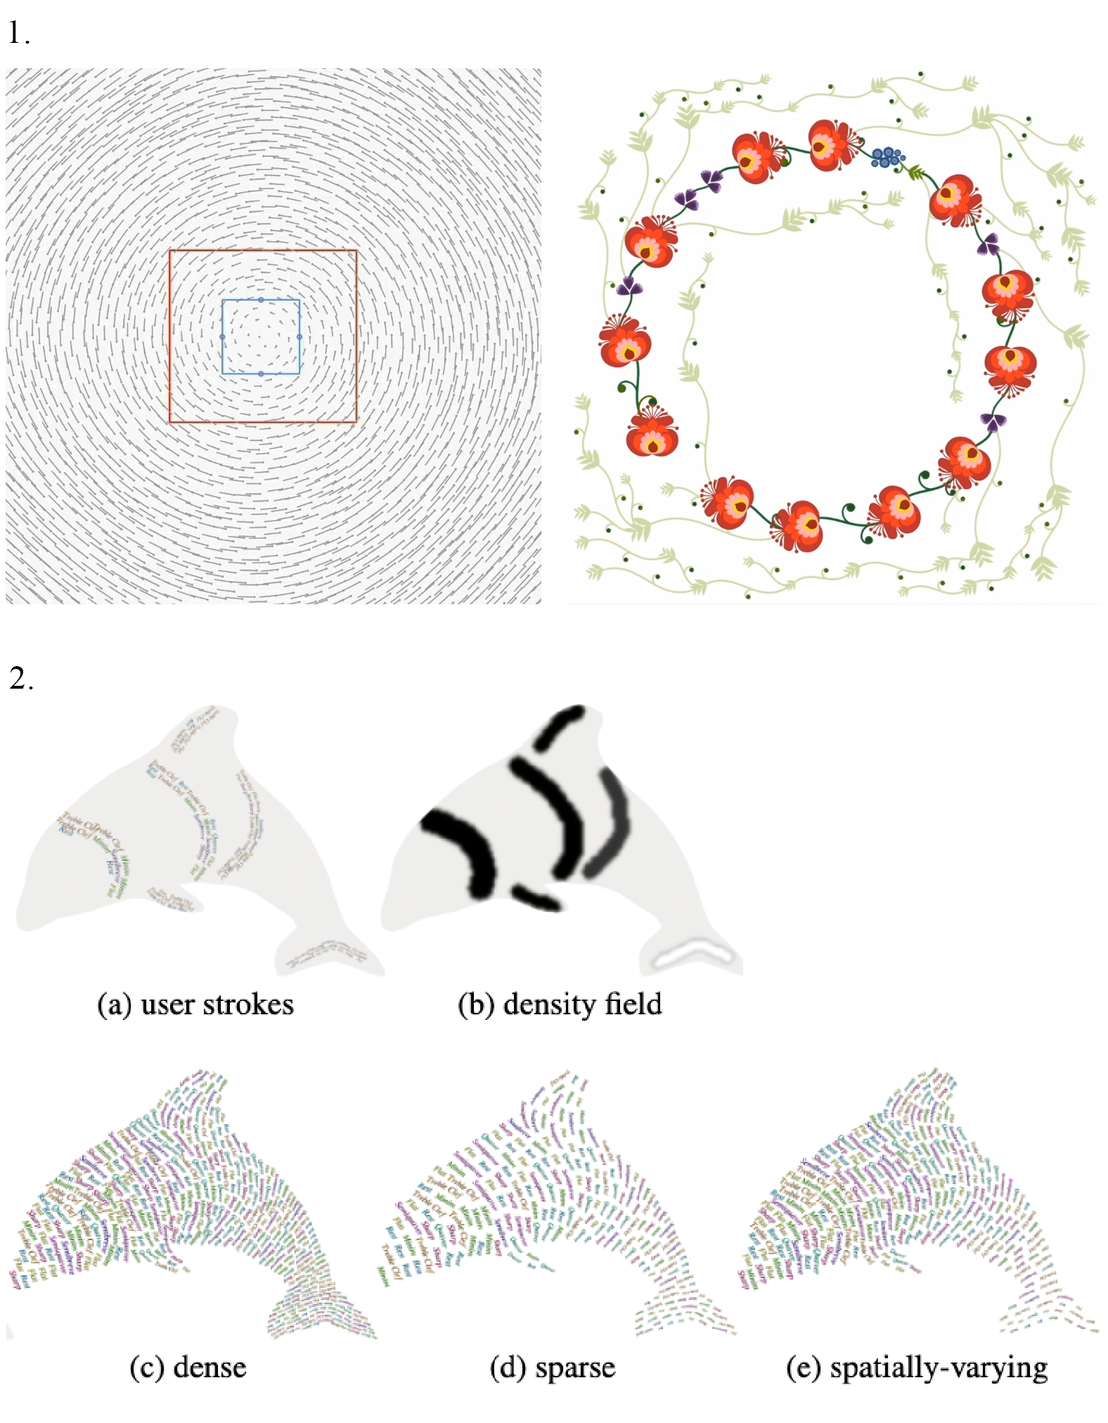
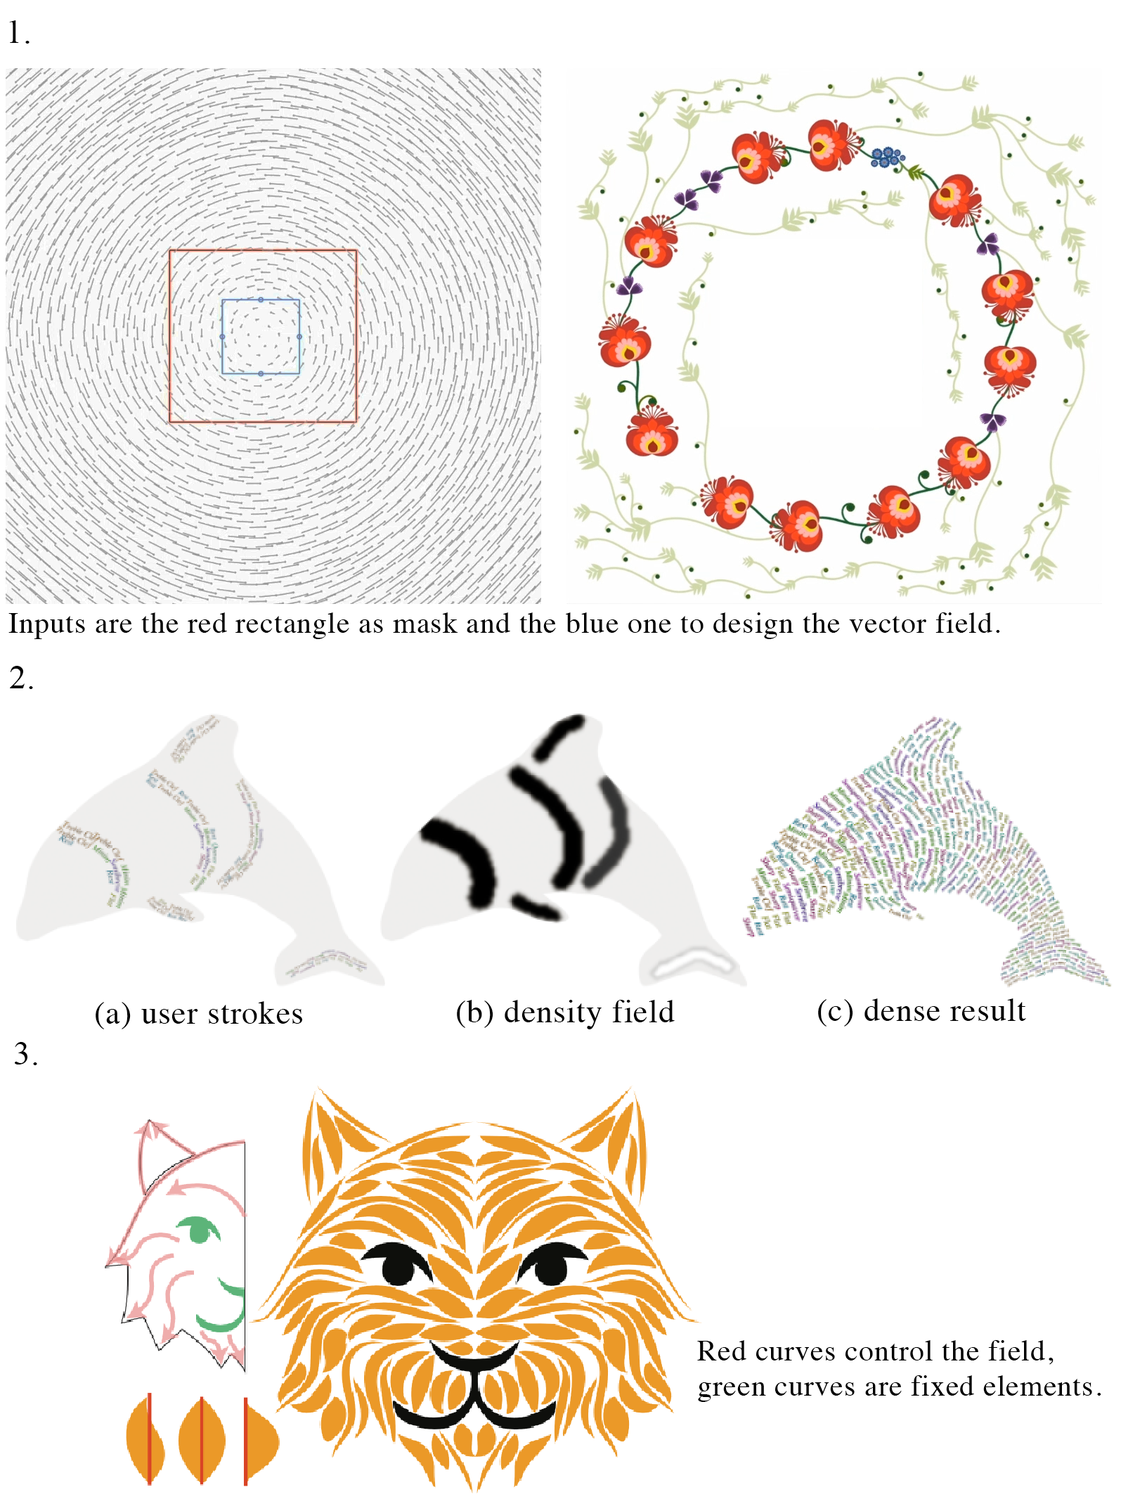
WIP Discussion

diff --git a/sections/deco_star_discussion.tex b/sections/deco_star_discussion.tex
@@ -6,17 +6,17 @@
 \section{Discussion and Creative Means}
 \label{sec:discussion_creative_means}
 
-% TODO: More discussion for table:analysis
 Table~\ref{table:analysis} lists for the above discussed publications the control mechanisms, which are categorized in~\Cref{sec:taxo_control_mechanism}. For interrelating the control mechanisms to the control characteristics, we considered the same publications in Table~\ref{table:taxo_controlmechanism}. Due to the diversity of the underlying methods and the different design goals of the considered body of work, we believe this to be a representative summarization.
 
-Table~\ref{table:taxo_controlmechanism} shows that global, hence automatic, control is usually enabled through intermediate representations, such as an example image, while on the other end of the spectrum, the placement of elements as part of the actual output is local, and automation is lost. Parameterization and the different types of handling also require abstracted input from an artist, such as the use of a slider. Sketch-based controls, such as an eraser, move the interaction onto the canvas and can make small-scale adjustments. The definition of a space or a curve to fill and masking areas is also usually done directly on the canvas but only influence the output indirectly. A brushing mechanism simultaneously creates the output directly on the canvas but can only do so in a limited region depending on the brush size, unless used to brush intermediate control lines. All other inputs are typically given before or after the generation of the output. The classification underlines that a focus on one control type, as is often done in computer graphics research, leads to the common trade-off between global automation and local manual manufacturing.
+\rev{Discussion Added}{Which design features the anlaysed work in Table~\ref{table:analysis} considers, indicates in summary a common tendency. A large body of work focuses on repetitive pattern designs and filling a space, usually automatically. The second most prominent group of work, focuses on curves and brushing, resulting in individual but potentially unstructured designs, usually created manually. Creative pattern designs, however, as for example the historic examples in \Cref{fig:historic_examples} show, include various spatial structures such as frames. Hence, neither overall repetition, nor painting-like methods are the most suitable solution to give creative freedom. instead, algorithms are needed that support artist to create structures creatively.}
+
+Table~\ref{table:taxo_controlmechanism} shows that global, hence automatic, control is usually enabled through intermediate representations, such as an example image, while on the other end of the spectrum, the placement of elements as part of the actual output is local, and automation is lost. \rev{Clarification}{The dominant control mechanisms of parameterization requires abstracted input from an artist, such as the use of a slider.} Sketch-based controls, such as an eraser, move the interaction onto the canvas and can make small-scale adjustments. The definition of a space or a curve to fill and masking areas is also usually done directly on the canvas but only influence the output indirectly. A brushing mechanism simultaneously creates the output directly on the canvas but can only do so in a limited region depending on the brush size, unless used to brush intermediate control lines. All other inputs are typically given before or after the generation of the output. The classification underlines that a focus on one control type, as is often done in computer graphics research, leads to the common trade-off between global automation and local manual manufacturing.
 
 % TABLE
 % This is for overaleaf a preview image as the table does not compile there...
 \subimport{tables/}{table_controlmechanism}
 
-
-We now discuss the techniques' potential to support a creative workflow, clustered into the most common types of control. This discussion of the creative means has an interpretative nature to it. Arguably, not always is an unambiguous reasoning manageable. Thus, this discussion should be viewed as a step toward an objective discussion about terms such as artist-usable and creatively controllable as well as a more realistic usage of these terms.
+We now discuss the techniques' potential to support a creative workflow, clustered into the most common types of control. This discussion of the creative means of navigation, transparency, variation and simulation (\Cref{sec:creativ_means}) has an interpretative nature to it. Arguably, not always is an unambiguous reasoning manageable. Thus, this discussion should be viewed as a step toward an objective discussion about terms such as artist-usable and creatively controllable as well as a more realistic usage of these terms.
 
 \subsection{Example-Based Control}
 \label{subsubsec:analysis_creative_means_example}
@@ -38,51 +38,44 @@ The potential of example-based methods for creative control lies in furthering i
 \subsection{Shapes and Masks}
 \label{subsubsec:analysis_creative_means_shapes}
 
-Sophisticated masks and growth constraints lead to visually interesting and complex designs, such as the packing pattern from~\citeauthor*{saputra_2018_rde}~\cite{saputra_2018_rde}. However, it is not directly predictable how a space will be filled exactly. Because many of the presented methods only offer quite limited interactive performance, even a basic trial and error exploration is hardly feasible; hence, the navigation of the design space becomes cumbersome, and stimulation becomes hindered. The one technique \cite{santoni_2016_ggp} that offers the means for a transparent navigation is also the one with a fairly harsh restricted design space. \citeauthor*{santoni_2016_ggp}~\cite{santoni_2016_ggp}s' consideration of a navigation history stands out from the related work in this survey. In terms of stimuli, the mass-spring system for editing control guides offered by \citeauthor*{benes_2011_gpm}~\cite{benes_2011_gpm}, as well as the elastic curves from \citeauthor*{zehnder_2016_dso}~\cite{zehnder_2016_dso} are promising directions because they are intuitive and enjoyable to use and encourage exploration.
-
-In terms of control mechanisms for a more complex design goal, shape fillings and masks do not permit hierarchical or element-level local controls or the control of element connections needed by artists who want to generate patterns creatively without having to write code.
+Sophisticated masks and growth constraints lead to visually interesting and complex designs, such as the packing pattern from~\citeauthor*{saputra_2018_rde}~\cite{saputra_2018_rde}. However, it is not directly predictable how a space will be filled exactly. Because many of the presented methods only offer quite limited interactive performance, even a basic trial and error exploration is hardly feasible; hence, the navigation of the design space becomes cumbersome, and stimulation becomes hindered. The one technique (\cite{santoni_2016_ggp}) that offers the means for a transparent navigation is also the one with a fairly harsh restricted design space. \citeauthor*{santoni_2016_ggp}~\cite{santoni_2016_ggp}s' consideration of a navigation history stands out from the related work in this survey. In terms of stimuli, the mass-spring system for editing control guides offered by \citeauthor*{benes_2011_gpm}~\cite{benes_2011_gpm}, as well as the elastic curves from \citeauthor*{zehnder_2016_dso}~\cite{zehnder_2016_dso} (\Cref{fig:zehnder_2016_dso}) are promising directions because they are intuitive and enjoyable to use and encourage exploration. \rev{}{Overall, the presented control meachnisms of \citeauthor*{zehnder_2016_dso}~\cite{zehnder_2016_dso} are a convincing solution for enabling artists to adhere to structural constraints while still offering a fully navigable, transparent and stimulating creative workflow.}
 
 \begin{figure}[H]
     \centering
     \revimage{\includegraphics[width=\linewidth]{figures/discussion/zehnder_2016_dso.png}}
-    \caption{\label{fig:zehnder_2016_dso}\citeauthor*{zehnder_2016_dso}~\cite{zehnder_2016_dso} TODO: add description. Example from the supplemental material. \color{orange}{Status rights: author contacted}}
+    \caption{\label{fig:zehnder_2016_dso}\citeauthor*{zehnder_2016_dso}~\cite{zehnder_2016_dso} offer various control mechanisms from creating the base elements (top-left) to combining and editing them on the surface, while ensuring structural soundness (bottom). Example from the supplemental video. \color{orange}{Status rights: Disney?}}
 \end{figure}
 
+In terms of control mechanisms for a more complex design goal, shape fillings and masks do not permit hierarchical or element-level local controls or the control of element connections needed by artists who want to generate patterns creatively without having to write code.
 
-\subsection{Vector Fields}
+
+\subsection{Fields}
 \label{subsubsec:analysis_creative_means_fields}
 
-Fields (in the context of this survey usually vector fields) constitute a powerful tool for combining an automatic procedural filling by individually designing regions on the canvas. As \citeauthor*{hsu_2020_aef}~\cite{hsu_2020_aef}, ~\citeauthor*{saputra_2017_ffo}~\cite{saputra_2017_ffo} and \citeauthor*{gieseke_2017_ooo}~\cite{gieseke_2017_ooo} show, the streamlines of a field can create curves as part of the pattern that fill and structure a space. The design of a vector field requires usually less manual work to fill a space in its entirety by inputing only a few curves that control, \eg~directionality, than the manual creation, \eg~drawing of all curves needed for the filling. Other global design choices, such as an overall growth direction or the alignment of elements, are simple to translate from a vector field to procedural generation rules.
+Fields (in the context of this survey usually vector fields) constitute a powerful tool for combining an automatic procedural filling by individually designing regions on the canvas. As \citeauthor*{hsu_2020_aef}~\cite{hsu_2020_aef}, ~\citeauthor*{saputra_2017_ffo}~\cite{saputra_2017_ffo} and \citeauthor*{gieseke_2017_ooo}~\cite{gieseke_2017_ooo} show (\Cref{fig:fields}), the streamlines of a field can create curves as part of the pattern that fill and structure a space. The design of a vector field requires usually less manual work to fill a space in its entirety by inputing only a few curves that control, \eg~directionality, than the manual creation, \eg~drawing of all curves needed for the filling. Other global design choices, such as an overall growth direction or the alignment of elements, are simple to translate from a vector field to procedural generation rules.
 
 \begin{figure}[H]
     \centering
     \revimage{\includegraphics[width=\linewidth]{figures/discussion/fields.png}}
-    \caption{\label{fig:gieseke_2017_ooo}1. \citeauthor*{gieseke_2017_ooo}~\cite{gieseke_2017_ooo} TODO: add description. Example from the supplemental material. \color{green}{Status rights: granted}. 2. \citeauthor*{hsu_2020_aef}~\cite{hsu_2020_aef} (Figure 10) TODO: add description. \color{orange}{Status rights: invoice received}}
+    \caption{\label{fig:fields}Different approaches to design vector fields for creative pattern generation. 1.~\citeauthor*{gieseke_2017_ooo}~\cite{gieseke_2017_ooo} (example from the supplemental video), 2.~\citeauthor*{hsu_2020_aef}~\cite{hsu_2020_aef} (Figure 10) \color{orange}{Status rights: invoice received}\color{black}, 3.~\citeauthor*{saputra_2017_ffo}~\cite{saputra_2017_ffo} (Figure 14).}
 \end{figure}
 
-The discussed work shows that fields allow for greater visual variation by opening the design space and transparent control for filling a space automatically. When designing a vector field, artists do not work with the pattern directly, but fields are intuitive to understand. Their abstraction translates to the model in a straightforward manner. Thus, using flow within a vector field to design is a suitable control mechanism, especially for designs that aims to align their elements to the space.
-
-% \begin{figure}[H]
-%     \centering
-%     \revimage{\includegraphics[width=\linewidth]{figures/discussion/hsu_2020_aef.png}}
-%     \label{fig:hsu_2020_aef}
-%     \caption{\citeauthor*{hsu_2020_aef}~\cite{hsu_2020_aef} (Figure 10) TODO: add description. \color{orange}{Status rights: ACM requested}}
-% \end{figure}
+The discussed work shows that fields allow for greater visual variation by opening the design space and transparent control for filling a space automatically. When designing a vector field, artists do not work with the pattern directly, but fields are intuitive to understand, \eg through a visual representation. Their abstraction translates to the model in a straightforward manner. Thus, using flow within a vector field to design is a suitable control mechanism, especially for designs that aims to align their elements to the space.
 
 
 \subsection{Curves and Brushing}
 \label{subsubsec:analysis_creative_means_curves}
 
-Curves and hand-drawn paths give an artist direct control over the final result. In addition to the visual output being further constrained, the control is put onto the actual canvas. Curves are needed for tasks such as creating a decorative frame or structuring the space. Some techniques consider the whole curve before computing the pattern, optimizing the filling of the curve based on certain design goals, enabling a form of global planning.
+Curves and hand-drawn paths give an artist direct control over the final result. In addition to the visual output being further constrained, the control is put onto the actual canvas. Curves are needed for tasks such as creating a decorative frame or structuring the space. Some techniques consider the whole curve before computing the ornament and optimize the filling of the curve based on certain design goals. This can be understood as a form of global planning. 
 
 Curves and sketch-like methods offer a well communicated, hence transparent navigation. The discussed techniques are mostly interactive, artists are familiar with their functionality from the real world and they work directly on the canvas. The ease and directness of usage also constitute a foundation for possible immersive flow of work. Using painting-like methods can allow for smoother navigation by integrating brush settings and increasing the quantity of controls.
 
-However, because creation techniques and design spaces are open, it could lead to manual and tedious creation requirements for patterns. To balance this \citeauthor*{kazi_2012_vit}~\cite{kazi_2012_vit} and \citeauthor*{xing_2014_apr}~\cite{xing_2014_apr} incorporate procedural creation principles for automatic fillings into a data-driven process. \citeauthor*{hsu_2020_aef}~\cite{hsu_2020_aef} offer through a brushing system transparent navigation and an open design space within the topic of element arrangements. With a brush an artist is free to draw almost anything - depending only on one's personal drawing capabilities. For creative pattern generation elements are often carefully connected, creating a hierarchy of structures, such as for ornaments. Hence, element arrangements can only provide a subset - albeit an important one - of the design space needed for creative pattern generation. 
+However, because creation techniques and design spaces are open, it could lead to manual and tedious creation requirements for patterns. To balance this \citeauthor*{kazi_2012_vit}~\cite{kazi_2012_vit} and \citeauthor*{xing_2014_apr}~\cite{xing_2014_apr} (\Cref{fig:xing_2014_apr}) incorporate procedural creation principles for automatic fillings into a data-driven process. \citeauthor*{hsu_2020_aef}~\cite{hsu_2020_aef} offer through a brushing system transparent navigation and an open design space within the topic of element arrangements. With a brush an artist is free to draw almost anything - depending only on one's personal drawing capabilities. For creative pattern generation elements are often carefully connected, creating a hierarchy of structures, such as for ornaments. Hence, element arrangements can only provide a subset - albeit an important one - of the design space needed for creative pattern generation. 
 
 \begin{figure}[H]
     \centering
     \revimage{\includegraphics[width=\linewidth]{figures/discussion/xing_2014_apr.png}}
-    \caption{\label{fig:xing_2014_apr}\citeauthor*{xing_2014_apr}~\cite{xing_2014_apr} (Figure 1) TODO: add description. \color{green}{Status rights: granted}}
+    \caption{\label{fig:xing_2014_apr}\citeauthor*{xing_2014_apr}~\cite{xing_2014_apr}s' technique  propagates user sketches (right, black strokes) to fill the give outline automatically (right, red strokes)(Figure 1).}
 \end{figure}
 
 \subsection{Element Placement}

diff --git a/sections/deco_star_analysis.tex b/sections/deco_star_analysis.tex
@@ -165,7 +165,7 @@ The technique of \citeauthor*{ma_2011_det}~\cite{ma_2011_det} is based on a samp
 \subsection{Frames and Hierarchies}
 \label{subsec:analysis_frames_and_hierarchies}
 
-\rev{Better Explanation of Structure}{For the design feature of frames and hierarchies, pattern usually consist of different pattern in different areas. Frames are either based on filling a frame-shaped space or lines and curves.} Some techniques consider the whole curve before computing the ornament and optimize the filling of the curve based on certain design goals. This can be understood as a form of global planning. This type of control gives an artist visually more direct control than the previously discussed methods, which mainly focus on filling a shape. In addition to the visual output being further structured, the control is put onto the actual canvas.\rev{Better Explanation of Structure}{In the following, for designs with frames and hierarchies, we identify the mechanism clusters curves, shapes, masks, and data-driven.}
+\rev{Better Explanation of Structure}{For the design feature of frames and hierarchies, pattern usually consist of different pattern in different areas. Frames are either based on filling a frame-shaped space or lines and curves.} This type of control gives an artist visually more direct control than the previously discussed methods, which mainly focus on filling a shape. In addition to the visual output being further structured, the control is put onto the actual canvas.\rev{Better Explanation of Structure}{In the following, for designs with frames and hierarchies, we identify the mechanism clusters curves, shapes, masks, and data-driven.}
 
 \begin{figure}[H]
     \centering
@@ -195,7 +195,7 @@ Formed curves as visual element, such as circles, spirals or hearts, are essenti
 \begin{figure}[H]
     \centering
     \revimage{\includegraphics[width=\linewidth]{figures/analysis/curves.png}}
-    \caption{\label{fig:curves} On the top, left an example for formed curves as visual pattern element~\cite{xu_2009_mcc} (Figure 4)\color{red}{ Status rights: not started}. \color{black}On the top-right, an example for curves used as control mechanism for a data-driven approach~\cite{lu_2014_dds} (Figure 3) and on the bottom for a procedural pattern~\cite{mech_2012_tdf}.}
+    \caption{\label{fig:curves} On the top, left an example for formed curves as visual pattern element~\cite{xu_2009_mcc} (Figure 4)\color{red}{ Status rights: not started}. \color{black}On the top-right, an example for curves used as control mechanism for a data-driven approach~\cite{lu_2014_dds} (Figure 3) and on the bottom for procedural pattern generation~\cite{mech_2012_tdf}.}
 \end{figure}
 
 For more individual designs, brushing methods create output along curves but do so directly without taking an a priori completed curve into consideration, as if using a spray can or a brush. Brushing techniques usually include a brush diameter, hence the size of the area to be filled along the curve. \citeauthor*{mech_2012_tdf}~\cite{mech_2012_tdf} present the flexible \textit{Deco} procedural engine and examples of brushing methods for different aspects of generating procedural models, from brushing growth constraints, such as masks, to having a pattern grow along the strokes. This discussion only refers to the actual examples given by the authors. However, the engine opens up and generalizes environments for interactive control mechanisms for various types of procedural models. For the programming of decorative pattern models within the engine, helpful functionalities, such as symmetry objects and control guides, are predefined. All artist control mechanisms have interactive performance. Overall, performance mainly depends on the pattern generation scripts. The engine offers to load pattern codes as a dynamic library, optimizing performance. 
@@ -236,7 +236,7 @@ In the context of 3D modelling, \citeauthor*{talton_2009_emw}~\cite{talton_2009_
 \begin{figure}[H]
     \centering
     \revimage{\includegraphics[width=\linewidth]{figures/analysis/guo_2020_ipm.png}}
-    \caption{\label{fig:guo_2020_ipm} Visual example for branching structures. This example from \citeauthor*{guo_2020_ipm}~\cite{guo_2020_ipm} (Figure 13) recreates a user sketch (top, left) with a procedural representation (bottom row) through an inverse modeling approach.}
+    \caption{\label{fig:guo_2020_ipm} Visual examples for branching structures. \citeauthor*{guo_2020_ipm}~\cite{guo_2020_ipm} (Figure 13) recreate a user sketch (top, left) with a procedural L-system (bottom row) through an inverse modeling approach.}
 \end{figure}
 
 \paragraph*{Fields}
@@ -267,7 +267,7 @@ Even though the required functionality can be compared to using the tip of a bru
 \begin{figure}[H]
     \centering
     \revimage{\includegraphics[width=\linewidth]{figures/analysis/guerrero_2016_pep.png}}
-    \caption{\label{fig:guerrero_2016_pep} While the pattern exploration technique of \citeauthor*{guerrero_2016_pep}~\cite{guerrero_2016_pep} focuses on exploring design variations with repetitive visual characteristics, \eg based on symmetry, as shown on the left, the technique also enable the placement of single elements as shown on the right (supplemental video).}
+    \caption{\label{fig:guerrero_2016_pep} While the pattern exploration technique of \citeauthor*{guerrero_2016_pep}~\cite{guerrero_2016_pep} focuses on exploring design variations with repetitive visual characteristics, \eg based on symmetry, as shown on the left, the technique also enables the placement of single elements as shown on the right. Example from the supplemental video.}
 \end{figure}
 
 Also including possible single accents, the vector pattern generation technique of \citeauthor*{guerrero_2016_pep}~\cite{guerrero_2016_pep} offers suitable design variations while the artist is working on it.} An artist can select and continue with one of the offered alternatives. The system constantly re-selects from an exponential number of relevant variations based on the artist's modifications. The user interface is carefully laid out in order to offer design variations in an intuitive and efficient manner while at the same time not hindering an artist's own workflow. The authors thoroughly evaluate their system quantitatively and qualitatively - for example, with a user study. Overall, participants agreed on the usefulness of technique.

diff --git a/sections/tables/table_controlmechanism.tex b/sections/tables/table_controlmechanism.tex
@@ -108,5 +108,5 @@
 
 \includegraphics[width=\linewidth]{tables/table_controlmechanism.pdf}
 
-\caption[Prevalence of control mechanisms]{Prevalence of control mechanisms in the literature: In total, 50 publications are included (the discussed state of the art work). Please note, that the totals of each step (how, what, where, when) can exceed the total of that category as it can be implemented within multiple usage scenarios.\label{table:taxo_controlmechanism}}
+\caption[Prevalence of control mechanisms]{Prevalence of control mechanisms in the literature: In total, 50 publications are included (the discussed state of the art in~\Cref{sec:analysis}). Please note, that the totals of each step (how, what, where, when) can exceed the total of that category as it can be implemented within multiple usage scenarios.\label{table:taxo_controlmechanism}}
 \end{table}
